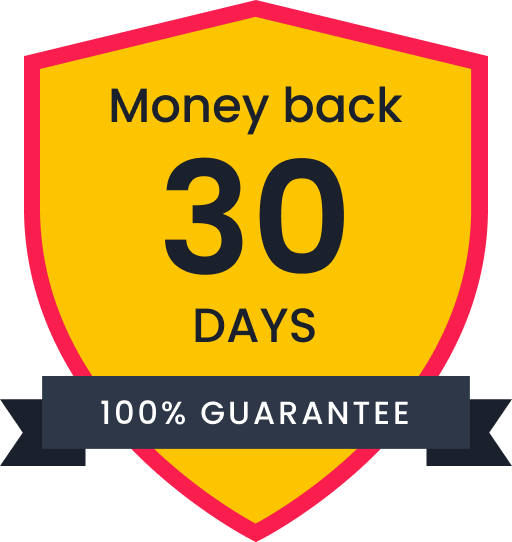
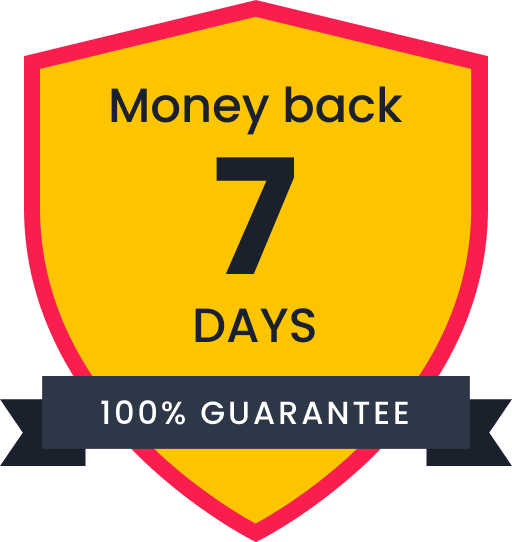
Fix price

Changed region(s): [[0.3125, 0.2657, 0.6875, 0.5314]]

diff --git a/css/price-2.css b/css/price-2.css
@@ -646,7 +646,7 @@
   }
 }
 .page-price-wrapper .sports-league-tournaments-wrapper {
-  background-color: #fff;
+  background-color: #FDC400;
   padding: 65px 0px 45px 0px;
 }
 @media only screen and (max-width: 991px) {
@@ -679,8 +679,7 @@
     padding: 0;
     justify-content: center;
     overflow-x: auto;
-    max-width: 100%;
-    min-width: 100%;
+    max-width: 100vw;
   }
 }
 .page-price-wrapper .sports-league-tournaments-wrapper .list-sport {
@@ -696,6 +695,8 @@
 @media only screen and (max-width: 991px) {
   .page-price-wrapper .sports-league-tournaments-wrapper .list-sport {
     margin-bottom: 16px;
+    min-width: max-content;
+    padding: 0;
   }
 }
 .page-price-wrapper .sports-league-tournaments-wrapper .list-sport li {
@@ -725,17 +726,17 @@
   text-align: center;
   min-width: 200px;
   max-width: 200px;
-  background: rgba(249, 30, 78, 0.1);
+  background: #F91E4E;
   border-radius: 8px;
   font-style: normal;
   font-weight: 500;
   font-size: 16px;
   line-height: 24px;
+  color: #fff;
   /* identical to box height */
   text-align: center;
   margin: 0 auto;
   /* #F91E4E */
-  color: #F91E4E;
   border: none;
 }
 .page-price-wrapper .sports-league-tournaments-wrapper .btn-see-more:focus {

diff --git a/scss/_page-price-2.scss b/scss/_page-price-2.scss
@@ -695,7 +695,7 @@
   }
 
   .sports-league-tournaments-wrapper {
-    background-color: #fff;
+    background-color: #FDC400;
     padding: 65px 0px 45px 0px;
 
 
@@ -729,8 +729,7 @@
         padding: 0;
         justify-content: center;
         overflow-x: auto;
-        max-width: 100%;
-        min-width: 100%;
+        max-width: 100vw;
       }
     }
 
@@ -746,7 +745,9 @@
 
       @include mq(max_md) {
         margin-bottom: 16px;
-        ;
+        min-width: max-content;
+        padding: 0;
+
       }
 
       li {
@@ -781,12 +782,13 @@
       text-align: center;
       min-width: 200px;
       max-width: 200px;
-      background: rgba(249, 30, 78, 0.1);
+      background: #F91E4E;
       border-radius: 8px;
       font-style: normal;
       font-weight: 500;
       font-size: 16px;
       line-height: 24px;
+      color: #fff;
       /* identical to box height */
 
       text-align: center;
@@ -794,7 +796,6 @@
 
       /* #F91E4E */
 
-      color: #F91E4E;
       border: none;
 
       &:focus {

diff --git a/price.html b/price.html
@@ -1045,7 +1045,7 @@
         <div class="money-back-content">
           <img src="./images/money-black-2.png" alt="" class="money-back-image">
           <div class="detail">
-            <h4 class="title">30-day money-back guarantee</h4>
+            <h4 class="title">7-day money-back guarantee</h4>
             <p class="description">Not sure if this is what you need? Take your time to try the NordVPN service
               completely risk-free.</p>
           </div>
